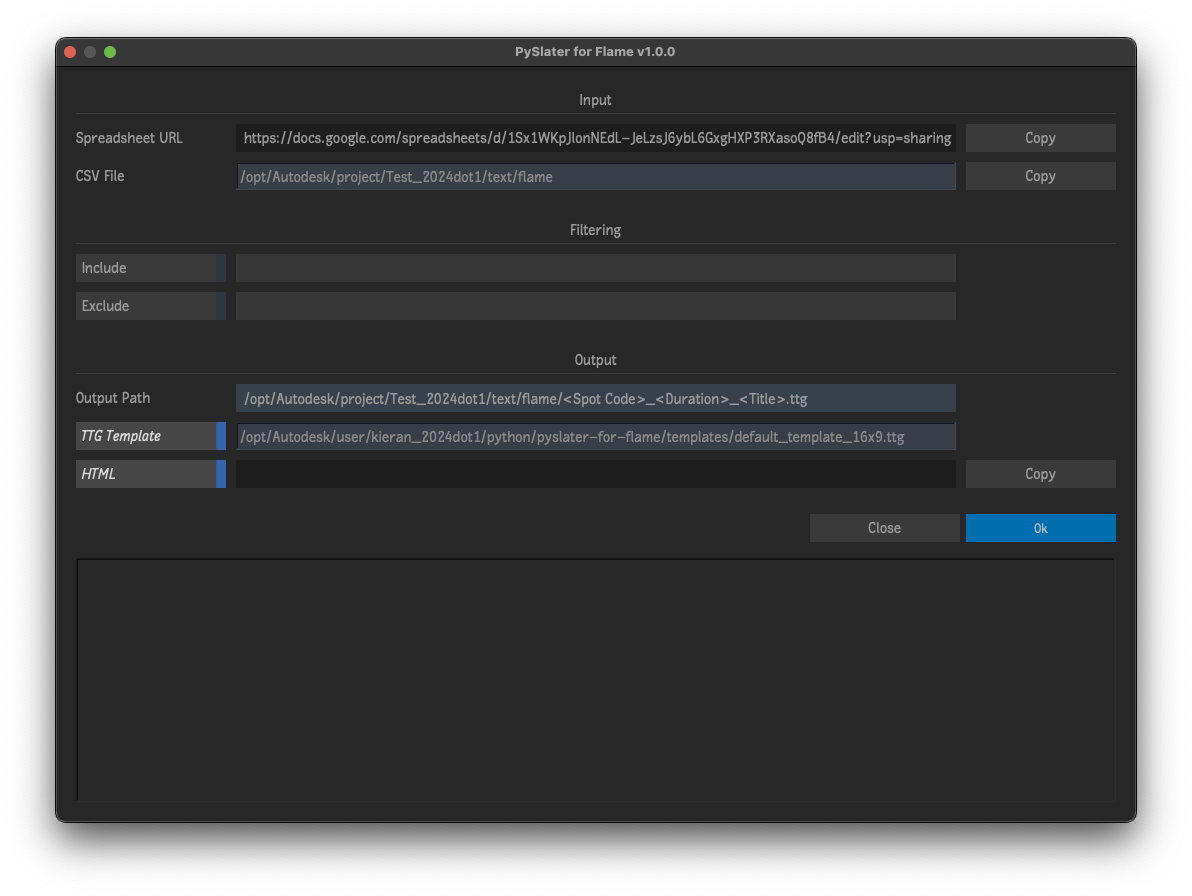
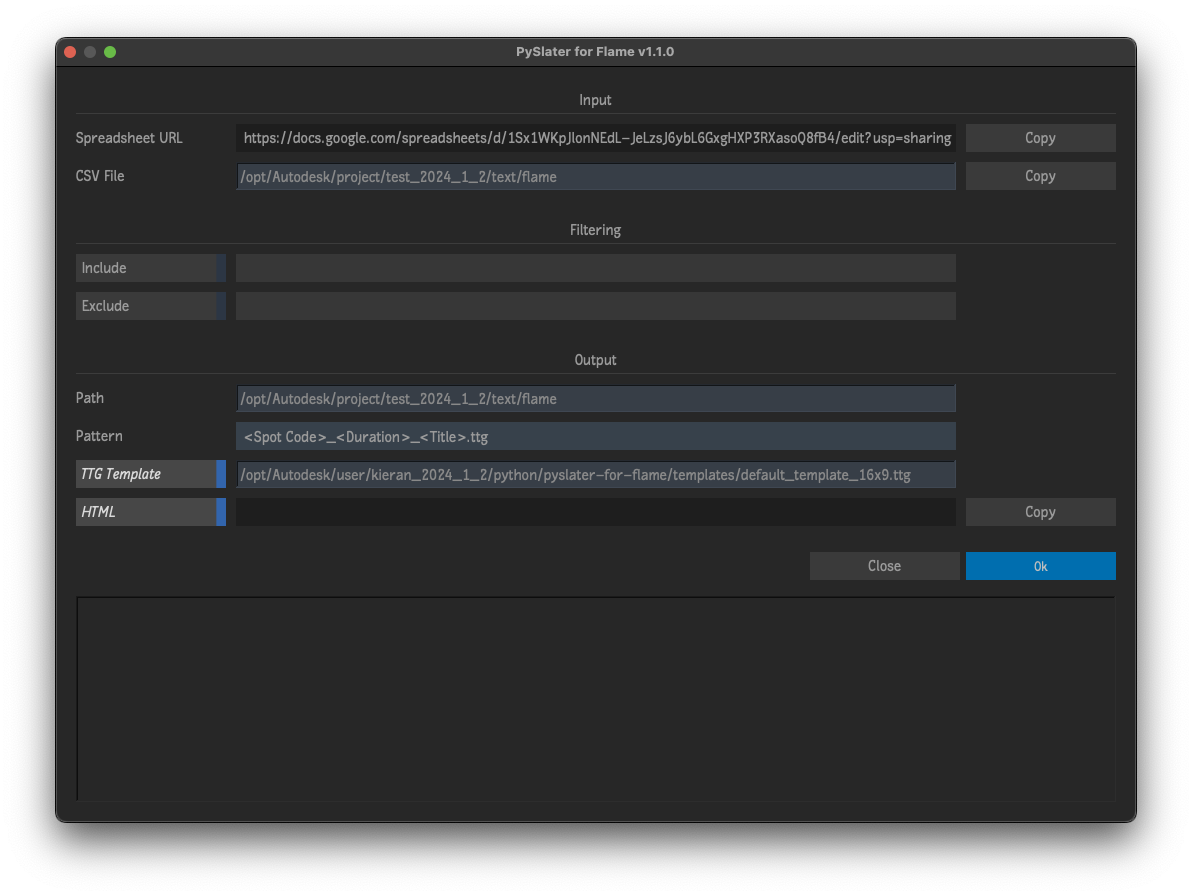
Add path and pattern fields
Split output path field into 2 separate fields for path and pattern.
The path field now brings up a file browser for ease of navigation.

diff --git a/pyslater_for_flame.py b/pyslater_for_flame.py
@@ -2,13 +2,13 @@
 Script Name: PySlater for Flame
 Written By: Kieran Hanrahan
 
-Script Version: 1.0.0
+Script Version: 1.1.0
 Flame Version: 2022
 
 URL: http://github.com/khanrahan/pyslater-for-flame
 
 Creation Date: 10.19.23
-Update Date: 10.19.23
+Update Date: 11.07.23
 
 Description:
 
@@ -40,7 +40,7 @@ from PySide2 import QtWidgets
 
 
 TITLE = 'PySlater for Flame'
-VERSION_INFO = (1, 0, 0)
+VERSION_INFO = (1, 1, 0)
 VERSION = '.'.join([str(num) for num in VERSION_INFO])
 VERSION_TITLE = '{} v{}'.format(TITLE, VERSION)
 
@@ -736,7 +736,7 @@ class PySlater(object):
             self.template_html_rows = ()
 
         except TypeError:
-            self.message( 'HTML template file not found!')
+            self.message('HTML template file not found!')
             self.template_html_rows = ()
 
     def write_html_page(self, line_number_to_replace, list_of_replacements):
@@ -925,7 +925,8 @@ class PySlaterWindow(object):
         self.ttg_file_path = self.path_join(
             [self.cmd_dir, DEFAULT_TEMPLATE])
 
-        self.output_template_path = self.get_output_template()
+        self.output_template = ''
+        self.get_output_template()
 
         self.html = True
         self.html_path = ''
@@ -1106,16 +1107,9 @@ class PySlaterWindow(object):
             self.ttg_file_path = ''
 
     def get_output_template(self):
-        '''Return template filepath.'''
+        '''Assemble initial output template filepath.'''
 
-        path = os.path.join(self.default_path, DEFAULT_OUTPUT_TTG)
-
-        return path
-
-    def get_output_template_path(self):
-        '''Update attribute with string from main window.'''
-
-        self.output_template_path = self.output_template.text()
+        self.output_template = os.path.join(self.default_path, DEFAULT_OUTPUT_TTG)
 
     def message_window(self, info):
         '''Print message to the bottom section of the QWidget main window.'''
@@ -1147,7 +1141,7 @@ class PySlaterWindow(object):
             force_overwrite=True,
             html=self.html,
             message=self.message,
-            output=self.output_template_path,
+            output=self.output_template,
             row_header=1,
             skip_existing=False,
             template_ttg=self.ttg_file_path)
@@ -1155,6 +1149,14 @@ class PySlaterWindow(object):
 
     def main_window(self):
         '''The main GUI window.'''
+
+        def update_output_template():
+            '''Update self.output_template when either of the component line edits are
+            changed.'''
+
+            self.output_template = os.path.join(
+                    self.output_path_line_edit.text(),
+                    self.output_pattern_line_edit.text())
 
         def okay_button():
             '''Okay button pressed.'''
@@ -1189,8 +1191,8 @@ class PySlaterWindow(object):
         self.filter_label = FlameLabel('Filtering', 'underline')
 
         self.output_label = FlameLabel('Output', 'underline')
-
-        self.output_template_label = FlameLabel('Output Path', 'normal')
+        self.output_path_label = FlameLabel('Path', 'normal')
+        self.output_pattern_label = FlameLabel('Pattern', 'normal')
 
         # Buttons
         self.ok_btn = FlameButton('Ok', okay_button, button_color='blue')
@@ -1222,10 +1224,6 @@ class PySlaterWindow(object):
             self.csv_file_path, '*.csv', self.window)
         self.csv_path_line_edit.textChanged.connect(self.get_csv_path)
 
-        self.ttg_path_line_edit = FlameLineEditFileBrowse(
-            self.ttg_file_path, '*.ttg', self.window)
-        self.ttg_path_line_edit.textChanged.connect(self.get_ttg_file_path)
-
         self.filter_include_line_edit = FlameLineEdit('')
         self.filter_include_line_edit.setEnabled(False)  # initial state
         self.filter_include_line_edit.textChanged.connect(self.get_filter_include)
@@ -1234,8 +1232,16 @@ class PySlaterWindow(object):
         self.filter_exclude_line_edit.setEnabled(False)  # initial state
         self.filter_exclude_line_edit.textChanged.connect(self.get_filter_exclude)
 
-        self.output_template = FlameLineEdit(self.output_template_path)
-        self.output_template.textChanged.connect(self.get_output_template_path)
+        self.output_path_line_edit = FlameLineEditFileBrowse(
+            self.default_path, 'dir', self.window)
+        self.output_path_line_edit.textChanged.connect(update_output_template)
+
+        self.output_pattern_line_edit = FlameLineEdit(DEFAULT_OUTPUT_TTG)
+        self.output_pattern_line_edit.textChanged.connect(update_output_template)
+
+        self.ttg_path_line_edit = FlameLineEditFileBrowse(
+            self.ttg_file_path, '*.ttg', self.window)
+        self.ttg_path_line_edit.textChanged.connect(self.get_ttg_file_path)
 
         self.html_path_line_edit = FlameLabel('', 'background')
 
@@ -1272,13 +1278,15 @@ class PySlaterWindow(object):
         self.grid3.setVerticalSpacing(10)
         self.grid3.setHorizontalSpacing(10)
         self.grid3.addWidget(self.output_label, 0, 0, 1, 3)
-        self.grid3.addWidget(self.output_template_label, 1, 0)
-        self.grid3.addWidget(self.output_template, 1, 1)
-        self.grid3.addWidget(self.ttg_template_btn, 2, 0)
-        self.grid3.addWidget(self.ttg_path_line_edit, 2, 1)
-        self.grid3.addWidget(self.html_btn, 3, 0)
-        self.grid3.addWidget(self.html_path_line_edit, 3, 1)
-        self.grid3.addWidget(self.html_copy_btn, 3, 2)
+        self.grid3.addWidget(self.output_path_label, 1, 0)
+        self.grid3.addWidget(self.output_path_line_edit, 1, 1)
+        self.grid3.addWidget(self.output_pattern_label, 2, 0)
+        self.grid3.addWidget(self.output_pattern_line_edit, 2, 1)
+        self.grid3.addWidget(self.ttg_template_btn, 3, 0)
+        self.grid3.addWidget(self.ttg_path_line_edit, 3, 1)
+        self.grid3.addWidget(self.html_btn, 4, 0)
+        self.grid3.addWidget(self.html_path_line_edit, 4, 1)
+        self.grid3.addWidget(self.html_copy_btn, 4, 2)
 
         # Layout
         self.hbox01 = QtWidgets.QHBoxLayout()
